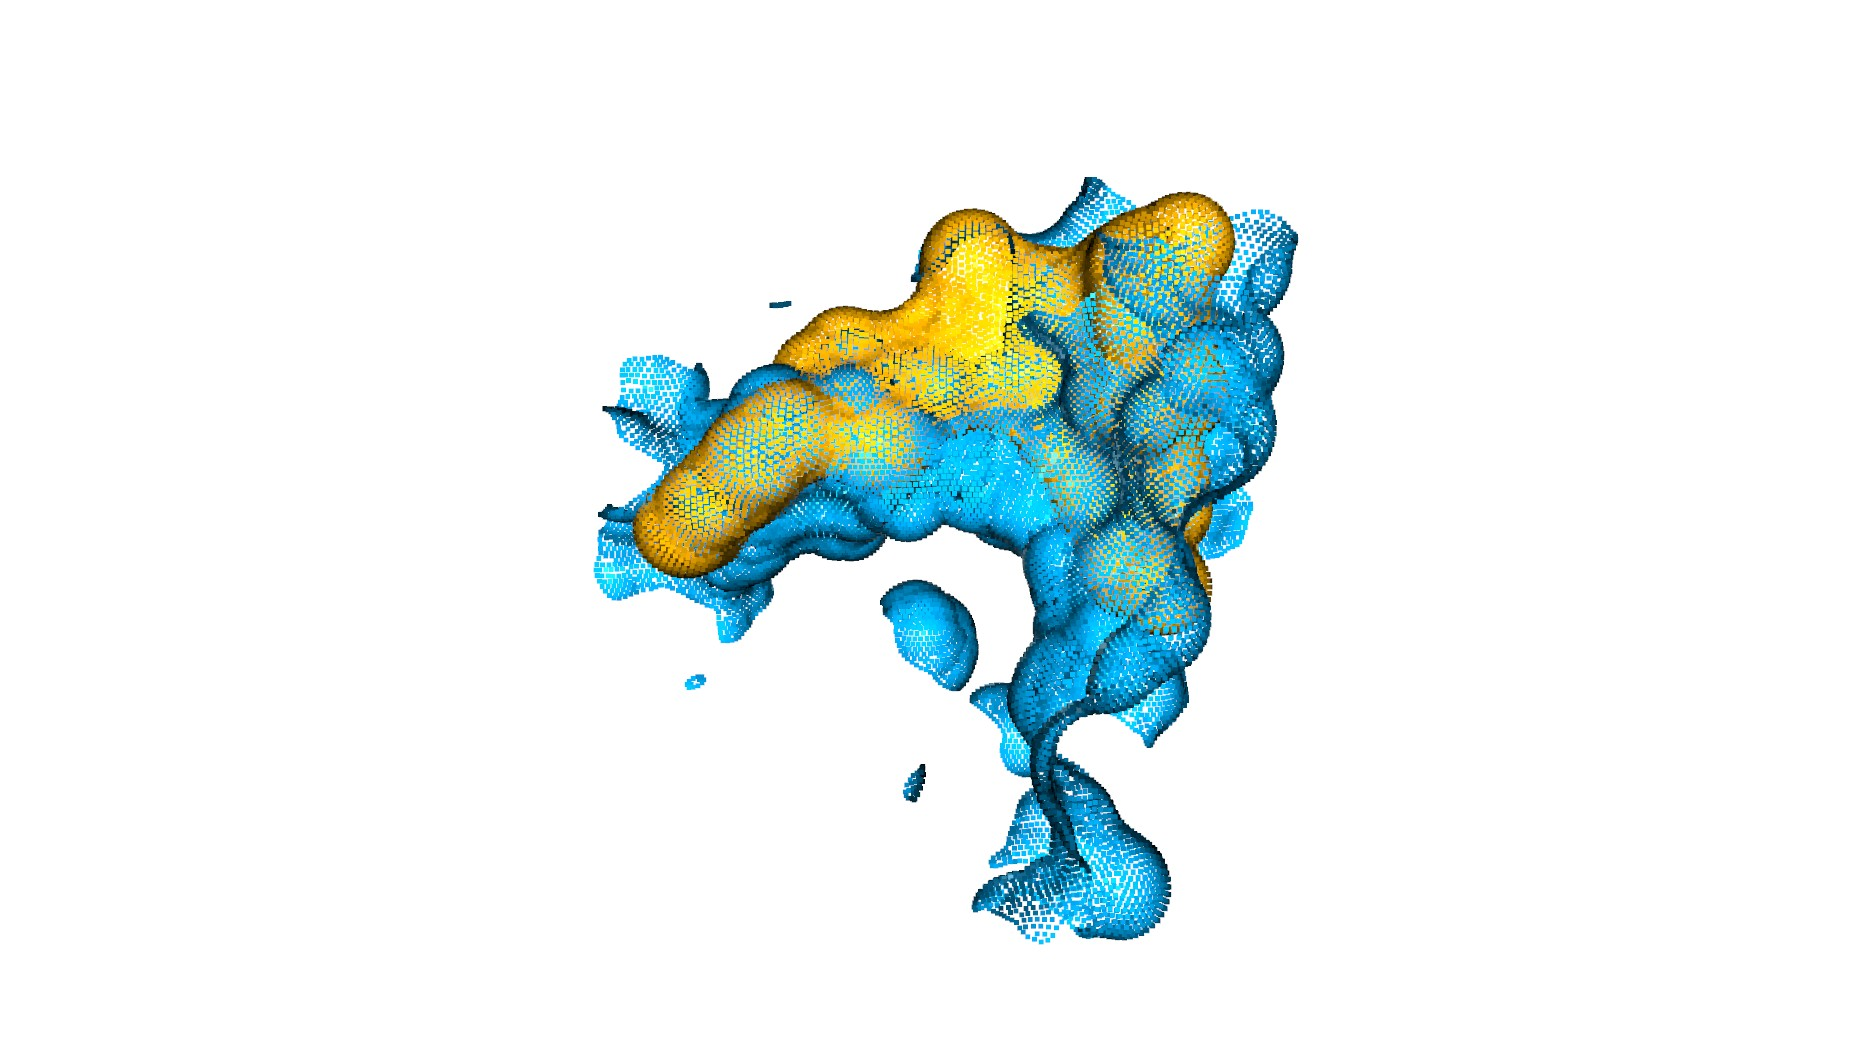
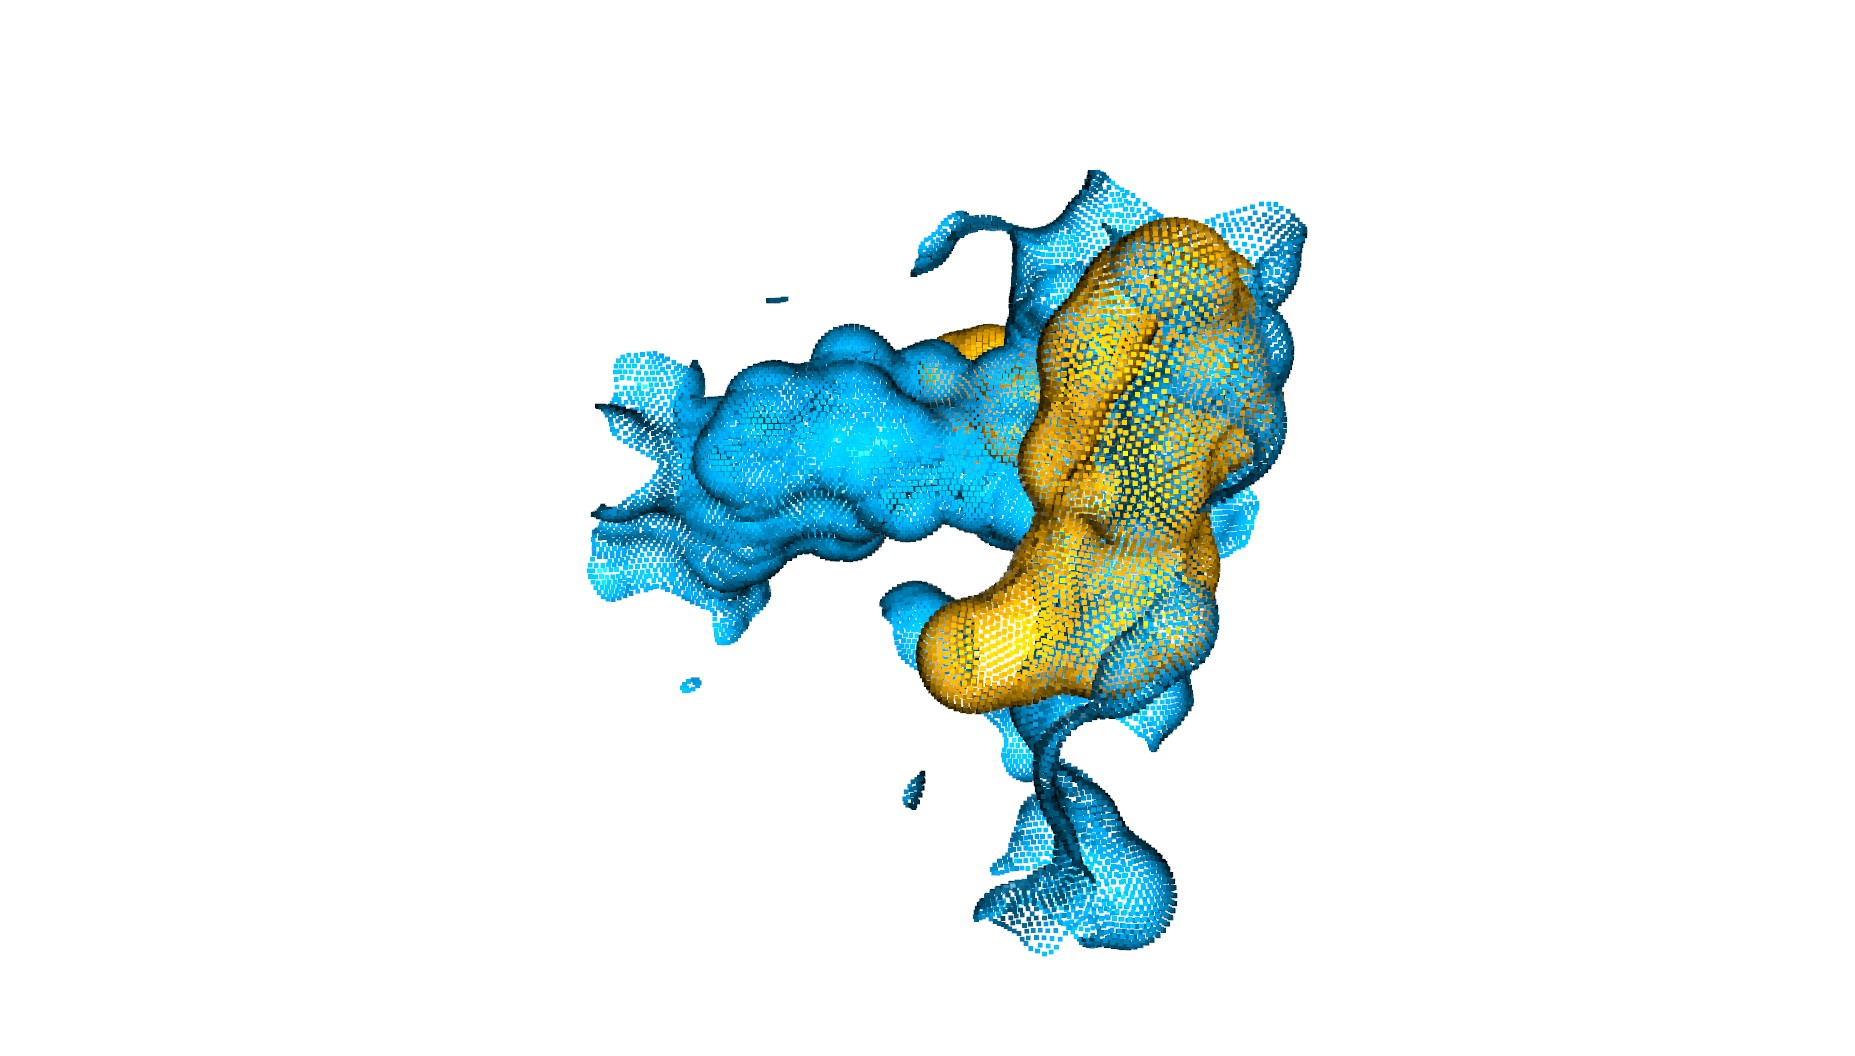
add rmse

Changed region(s): [[0.3073, 0.1562, 0.7067, 0.9062]]

diff --git a/5nix_fpfh_registration.py b/5nix_fpfh_registration.py
@@ -19,8 +19,10 @@ target.estimate_normal(voxel_size * 2)
 source.calculate_fpfh(voxel_size * 30)
 target.calculate_fpfh(voxel_size * 30)
 
+# --- 推定したリガンドのポーズと真のポーズとのＲＳＭＥをファイルに書き込み
+f = open('result_rmse.txt', mode="w")
 
-for i in range(10):
+for i in range(20):
     # --- ＦＰＦＨ特徴量をマッチングさせる
     result = pp.execute_global_registration(source.pcd_down, 
                                             target.pcd_down, 
@@ -36,6 +38,10 @@ for i in range(10):
     target.pcd.paint_uniform_color([0, 0.651, 0.929])
     source.pcd.paint_uniform_color([1, 0.706, 0])
     source.pcd.transform(result.transformation)
+
+    # --- 推定したリガンドのポーズと真のポーズとのＲＳＭＥ
+    rmse = np.average(source.pcd.compute_point_cloud_distance(source_model.pcd))
+    f.write(str(rmse)+"\n")
 
     # --- 画像保存（ウィンドウ出さずに保存）
     vis = o3d.visualization.Visualizer()
@@ -54,3 +60,5 @@ for i in range(10):
 
     # --- 向きを元に戻す
     source.pcd.transform(np.linalg.inv(result.transformation))
+
+f.close()
